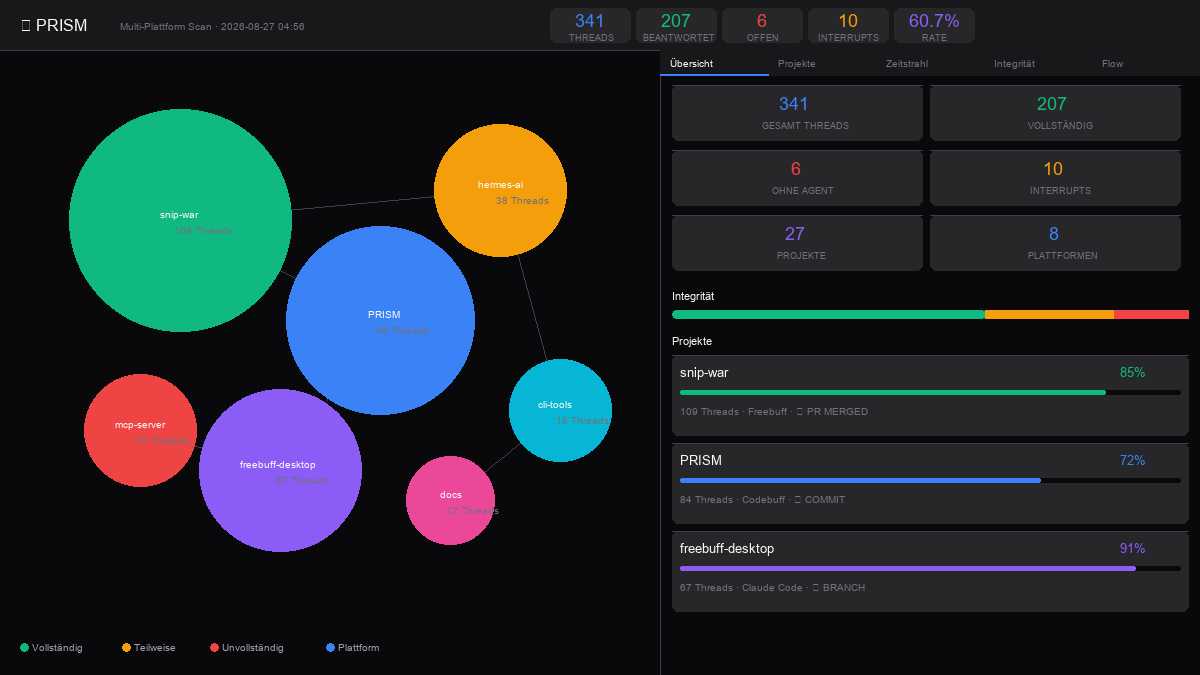
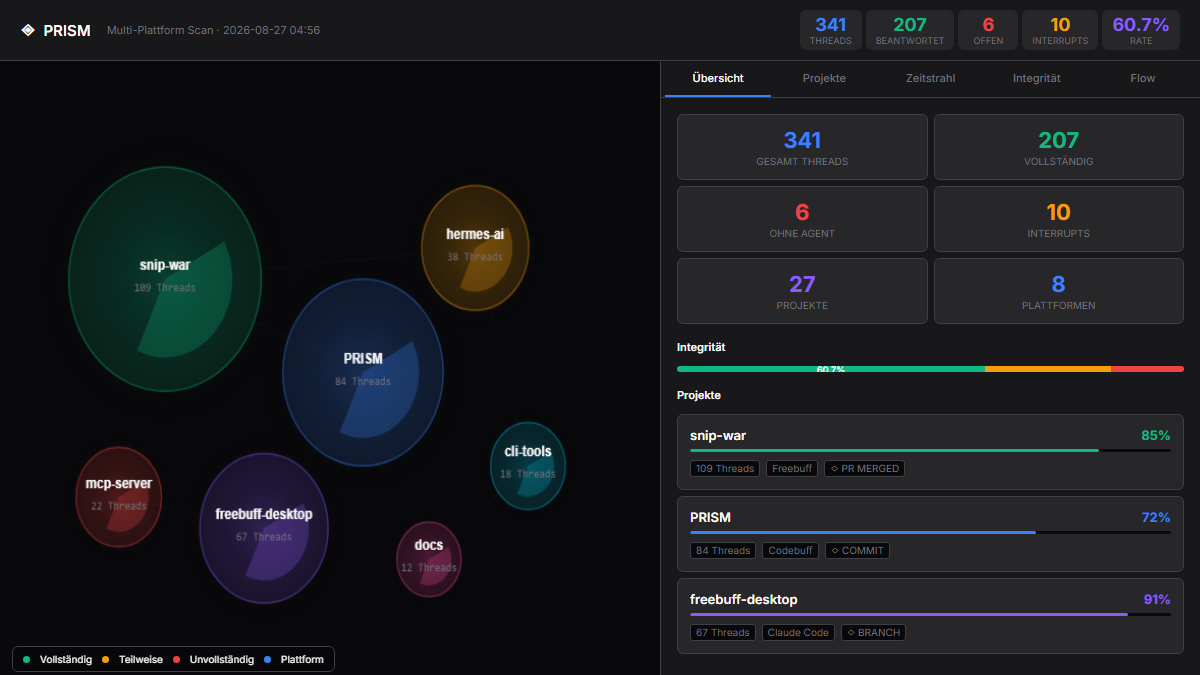
docs: render high-quality PNG screenshots with Chrome headless
Replaced Pillow-generated screenshots with Chrome-rendered versions:
- Canvas dashboard: 145KB with CSS glow effects and gradients
- Threads dashboard: 117KB with proper anti-aliasing
- User inputs dashboard: 97KB with chart rendering

Added tools/render_screenshots.py using html2image for regenerating.

🤖 Generated with Codebuff

diff --git a/tools/render_screenshots.py b/tools/render_screenshots.py
@@ -1,0 +1,73 @@
+#!/usr/bin/env python3
+"""Render HTML dashboard previews as high-quality PNG screenshots using Chrome."""
+from html2image import Html2Image
+from pathlib import Path
+import sys
+
+def main():
+    base = Path(__file__).parent.parent
+    screenshots_dir = base / "docs" / "screenshots"
+    
+    # HTML files to render
+    html_files = [
+        ("canvas-preview.html", "canvas-preview.png", (1200, 675)),
+        ("threads-preview.html", "threads-preview.png", (1200, 675)),
+        ("user-inputs-preview.html", "user-inputs-preview.png", (1200, 675)),
+    ]
+    
+    # Try to find Chrome
+    chrome_paths = [
+        r"C:\Program Files\Google\Chrome\Application\chrome.exe",
+        r"C:\Program Files (x86)\Google\Chrome\Application\chrome.exe",
+        r"C:\Users\Vannon\AppData\Local\Google\Chrome\Application\chrome.exe",
+        r"C:\Program Files\Microsoft\Edge\Application\msedge.exe",
+    ]
+    
+    chrome_path = None
+    for p in chrome_paths:
+        if Path(p).exists():
+            chrome_path = p
+            break
+    
+    if not chrome_path:
+        print("Chrome/Edge not found. Using default html2image path.")
+    
+    # Create Html2Image instance
+    kwargs = {
+        "custom_flags": [
+            "--no-sandbox",
+            "--disable-gpu",
+            "--disable-dev-shm-usage",
+            "--hide-scrollbars",
+        ],
+        "size": (1200, 675),
+    }
+    
+    if chrome_path:
+        kwargs["browser_executable"] = chrome_path
+    
+    hti = Html2Image(output_path=str(screenshots_dir), **kwargs)
+    
+    for html_file, png_file, size in html_files:
+        html_path = screenshots_dir / html_file
+        print(f"Rendering: {html_file} -> {png_file}")
+        
+        # Read HTML content
+        with open(html_path, 'r', encoding='utf-8') as f:
+            html_content = f.read()
+        
+        # Render with custom size
+        hti.size = size
+        hti.screenshot(html_str=html_content, save_as=png_file)
+        
+        output = screenshots_dir / png_file
+        if output.exists():
+            size_kb = output.stat().st_size / 1024
+            print(f"  Saved: {output} ({size_kb:.1f} KB)")
+        else:
+            print(f"  FAILED: {output} not created")
+    
+    print("\nDone!")
+
+if __name__ == "__main__":
+    main()
